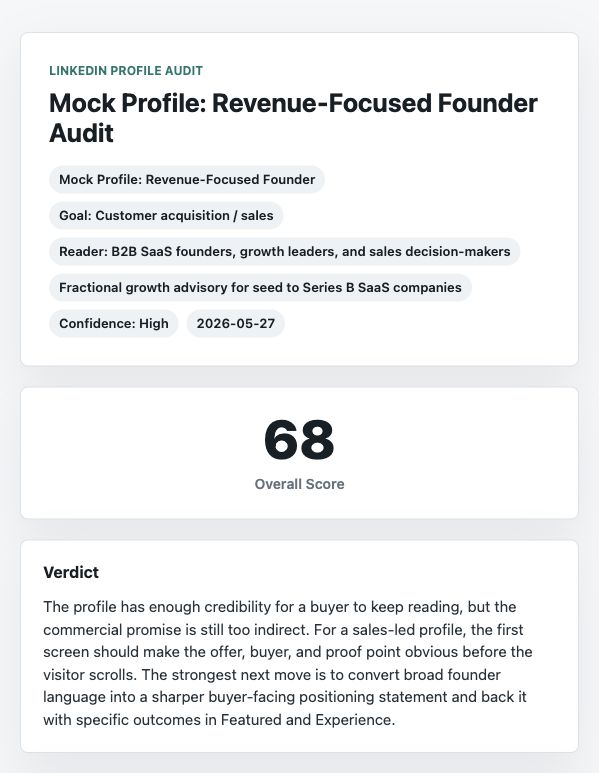
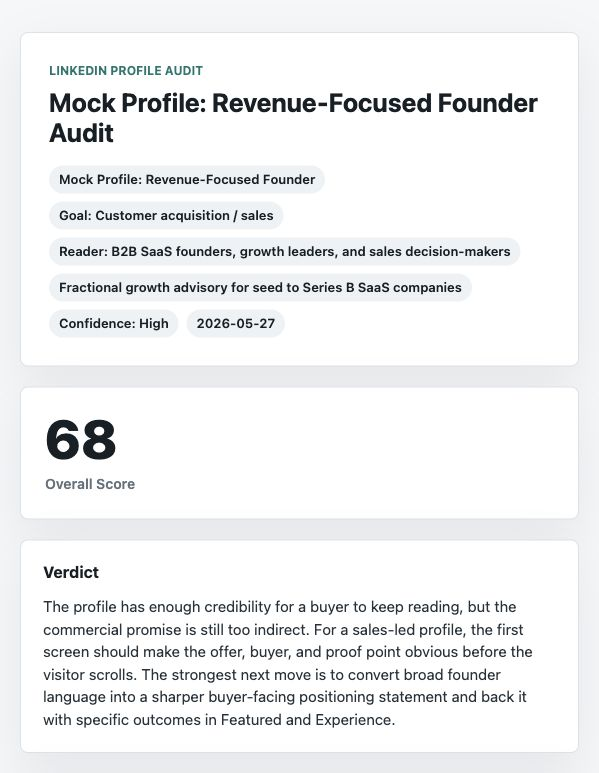
Use single column HTML report layout

Changed region(s): [[0.0601, 0.5278, 0.2404, 0.652], [0.4207, 0.5278, 0.571, 0.652]]

diff --git a/.agents/plugins/lpa/skills/linkedin-profile-analysis/assets/report-template.html b/.agents/plugins/lpa/skills/linkedin-profile-analysis/assets/report-template.html
@@ -30,16 +30,15 @@
     }
 
     .page {
-      max-width: 1180px;
+      max-width: 920px;
       margin: 0 auto;
       padding: 32px 20px 48px;
     }
 
     .hero {
       display: grid;
-      grid-template-columns: minmax(0, 1fr) 280px;
+      grid-template-columns: 1fr;
       gap: 20px;
-      align-items: stretch;
       margin-bottom: 20px;
     }
 
@@ -104,10 +103,12 @@
     }
 
     .score-panel {
-      display: grid;
-      place-items: center;
+      display: flex;
+      align-items: baseline;
+      justify-content: space-between;
+      gap: 16px;
       padding: 24px;
-      text-align: center;
+      text-align: left;
     }
 
     .score-number {
@@ -117,23 +118,24 @@
     }
 
     .score-label {
-      margin-top: 8px;
       color: var(--muted);
       font-weight: 600;
     }
 
     .grid {
       display: grid;
-      grid-template-columns: repeat(12, minmax(0, 1fr));
+      grid-template-columns: 1fr;
       gap: 20px;
       margin-top: 20px;
     }
 
-    .span-4 { grid-column: span 4; }
-    .span-5 { grid-column: span 5; }
-    .span-6 { grid-column: span 6; }
-    .span-7 { grid-column: span 7; }
-    .span-12 { grid-column: span 12; }
+    .span-4,
+    .span-5,
+    .span-6,
+    .span-7,
+    .span-12 {
+      grid-column: auto;
+    }
 
     .content {
       padding: 22px;
@@ -216,7 +218,7 @@
 
     .score-detail {
       display: none;
-      grid-template-columns: repeat(3, minmax(0, 1fr));
+      grid-template-columns: 1fr;
       gap: 12px;
       padding-top: 10px;
       border-top: 1px solid var(--line);
@@ -293,21 +295,11 @@
     }
 
     @media (max-width: 900px) {
-      .hero,
-      .grid {
-        grid-template-columns: 1fr;
-      }
-
-      .span-4,
-      .span-5,
-      .span-6,
-      .span-7,
-      .span-12 {
-        grid-column: span 1;
-      }
-
       h1 { font-size: 26px; }
-      .score-detail { grid-template-columns: 1fr; }
+      .score-panel {
+        display: grid;
+        gap: 8px;
+      }
     }
 
     @media print {

diff --git a/examples/mock-linkedin-profile-audit.html b/examples/mock-linkedin-profile-audit.html
@@ -30,16 +30,15 @@
     }
 
     .page {
-      max-width: 1180px;
+      max-width: 920px;
       margin: 0 auto;
       padding: 32px 20px 48px;
     }
 
     .hero {
       display: grid;
-      grid-template-columns: minmax(0, 1fr) 280px;
+      grid-template-columns: 1fr;
       gap: 20px;
-      align-items: stretch;
       margin-bottom: 20px;
     }
 
@@ -104,10 +103,12 @@
     }
 
     .score-panel {
-      display: grid;
-      place-items: center;
+      display: flex;
+      align-items: baseline;
+      justify-content: space-between;
+      gap: 16px;
       padding: 24px;
-      text-align: center;
+      text-align: left;
     }
 
     .score-number {
@@ -117,23 +118,24 @@
     }
 
     .score-label {
-      margin-top: 8px;
       color: var(--muted);
       font-weight: 600;
     }
 
     .grid {
       display: grid;
-      grid-template-columns: repeat(12, minmax(0, 1fr));
+      grid-template-columns: 1fr;
       gap: 20px;
       margin-top: 20px;
     }
 
-    .span-4 { grid-column: span 4; }
-    .span-5 { grid-column: span 5; }
-    .span-6 { grid-column: span 6; }
-    .span-7 { grid-column: span 7; }
-    .span-12 { grid-column: span 12; }
+    .span-4,
+    .span-5,
+    .span-6,
+    .span-7,
+    .span-12 {
+      grid-column: auto;
+    }
 
     .content {
       padding: 22px;
@@ -216,7 +218,7 @@
 
     .score-detail {
       display: none;
-      grid-template-columns: repeat(3, minmax(0, 1fr));
+      grid-template-columns: 1fr;
       gap: 12px;
       padding-top: 10px;
       border-top: 1px solid var(--line);
@@ -293,21 +295,11 @@
     }
 
     @media (max-width: 900px) {
-      .hero,
-      .grid {
-        grid-template-columns: 1fr;
-      }
-
-      .span-4,
-      .span-5,
-      .span-6,
-      .span-7,
-      .span-12 {
-        grid-column: span 1;
-      }
-
       h1 { font-size: 26px; }
-      .score-detail { grid-template-columns: 1fr; }
+      .score-panel {
+        display: grid;
+        gap: 8px;
+      }
     }
 
     @media print {

diff --git a/skills/linkedin-profile-analysis/assets/report-template.html b/skills/linkedin-profile-analysis/assets/report-template.html
@@ -30,16 +30,15 @@
     }
 
     .page {
-      max-width: 1180px;
+      max-width: 920px;
       margin: 0 auto;
       padding: 32px 20px 48px;
     }
 
     .hero {
       display: grid;
-      grid-template-columns: minmax(0, 1fr) 280px;
+      grid-template-columns: 1fr;
       gap: 20px;
-      align-items: stretch;
       margin-bottom: 20px;
     }
 
@@ -104,10 +103,12 @@
     }
 
     .score-panel {
-      display: grid;
-      place-items: center;
+      display: flex;
+      align-items: baseline;
+      justify-content: space-between;
+      gap: 16px;
       padding: 24px;
-      text-align: center;
+      text-align: left;
     }
 
     .score-number {
@@ -117,23 +118,24 @@
     }
 
     .score-label {
-      margin-top: 8px;
       color: var(--muted);
       font-weight: 600;
     }
 
     .grid {
       display: grid;
-      grid-template-columns: repeat(12, minmax(0, 1fr));
+      grid-template-columns: 1fr;
       gap: 20px;
       margin-top: 20px;
     }
 
-    .span-4 { grid-column: span 4; }
-    .span-5 { grid-column: span 5; }
-    .span-6 { grid-column: span 6; }
-    .span-7 { grid-column: span 7; }
-    .span-12 { grid-column: span 12; }
+    .span-4,
+    .span-5,
+    .span-6,
+    .span-7,
+    .span-12 {
+      grid-column: auto;
+    }
 
     .content {
       padding: 22px;
@@ -216,7 +218,7 @@
 
     .score-detail {
       display: none;
-      grid-template-columns: repeat(3, minmax(0, 1fr));
+      grid-template-columns: 1fr;
       gap: 12px;
       padding-top: 10px;
       border-top: 1px solid var(--line);
@@ -293,21 +295,11 @@
     }
 
     @media (max-width: 900px) {
-      .hero,
-      .grid {
-        grid-template-columns: 1fr;
-      }
-
-      .span-4,
-      .span-5,
-      .span-6,
-      .span-7,
-      .span-12 {
-        grid-column: span 1;
-      }
-
       h1 { font-size: 26px; }
-      .score-detail { grid-template-columns: 1fr; }
+      .score-panel {
+        display: grid;
+        gap: 8px;
+      }
     }
 
     @media print {

diff --git a/.agents/plugins/lpa/skills/linkedin-profile-analysis/references/html-report.md b/.agents/plugins/lpa/skills/linkedin-profile-analysis/references/html-report.md
@@ -61,5 +61,6 @@ const auditData = {
 - Keep priorities to 3-7 items.
 - Keep copy boxes short enough to scan.
 - Keep the type scale restrained: title, section heading, body text, and small labels only.
+- Keep the report layout as one column. Do not use a bento grid or side-by-side cards for the report sections.
 - Keep the palette mixed and restrained: green/teal for strong, amber for weak, rose for severe, blue only for secondary emphasis.
 - Avoid decorative visuals, large hero marketing layouts, and nested cards. This is an audit dashboard.

diff --git a/skills/linkedin-profile-analysis/references/html-report.md b/skills/linkedin-profile-analysis/references/html-report.md
@@ -61,5 +61,6 @@ const auditData = {
 - Keep priorities to 3-7 items.
 - Keep copy boxes short enough to scan.
 - Keep the type scale restrained: title, section heading, body text, and small labels only.
+- Keep the report layout as one column. Do not use a bento grid or side-by-side cards for the report sections.
 - Keep the palette mixed and restrained: green/teal for strong, amber for weak, rose for severe, blue only for secondary emphasis.
 - Avoid decorative visuals, large hero marketing layouts, and nested cards. This is an audit dashboard.
